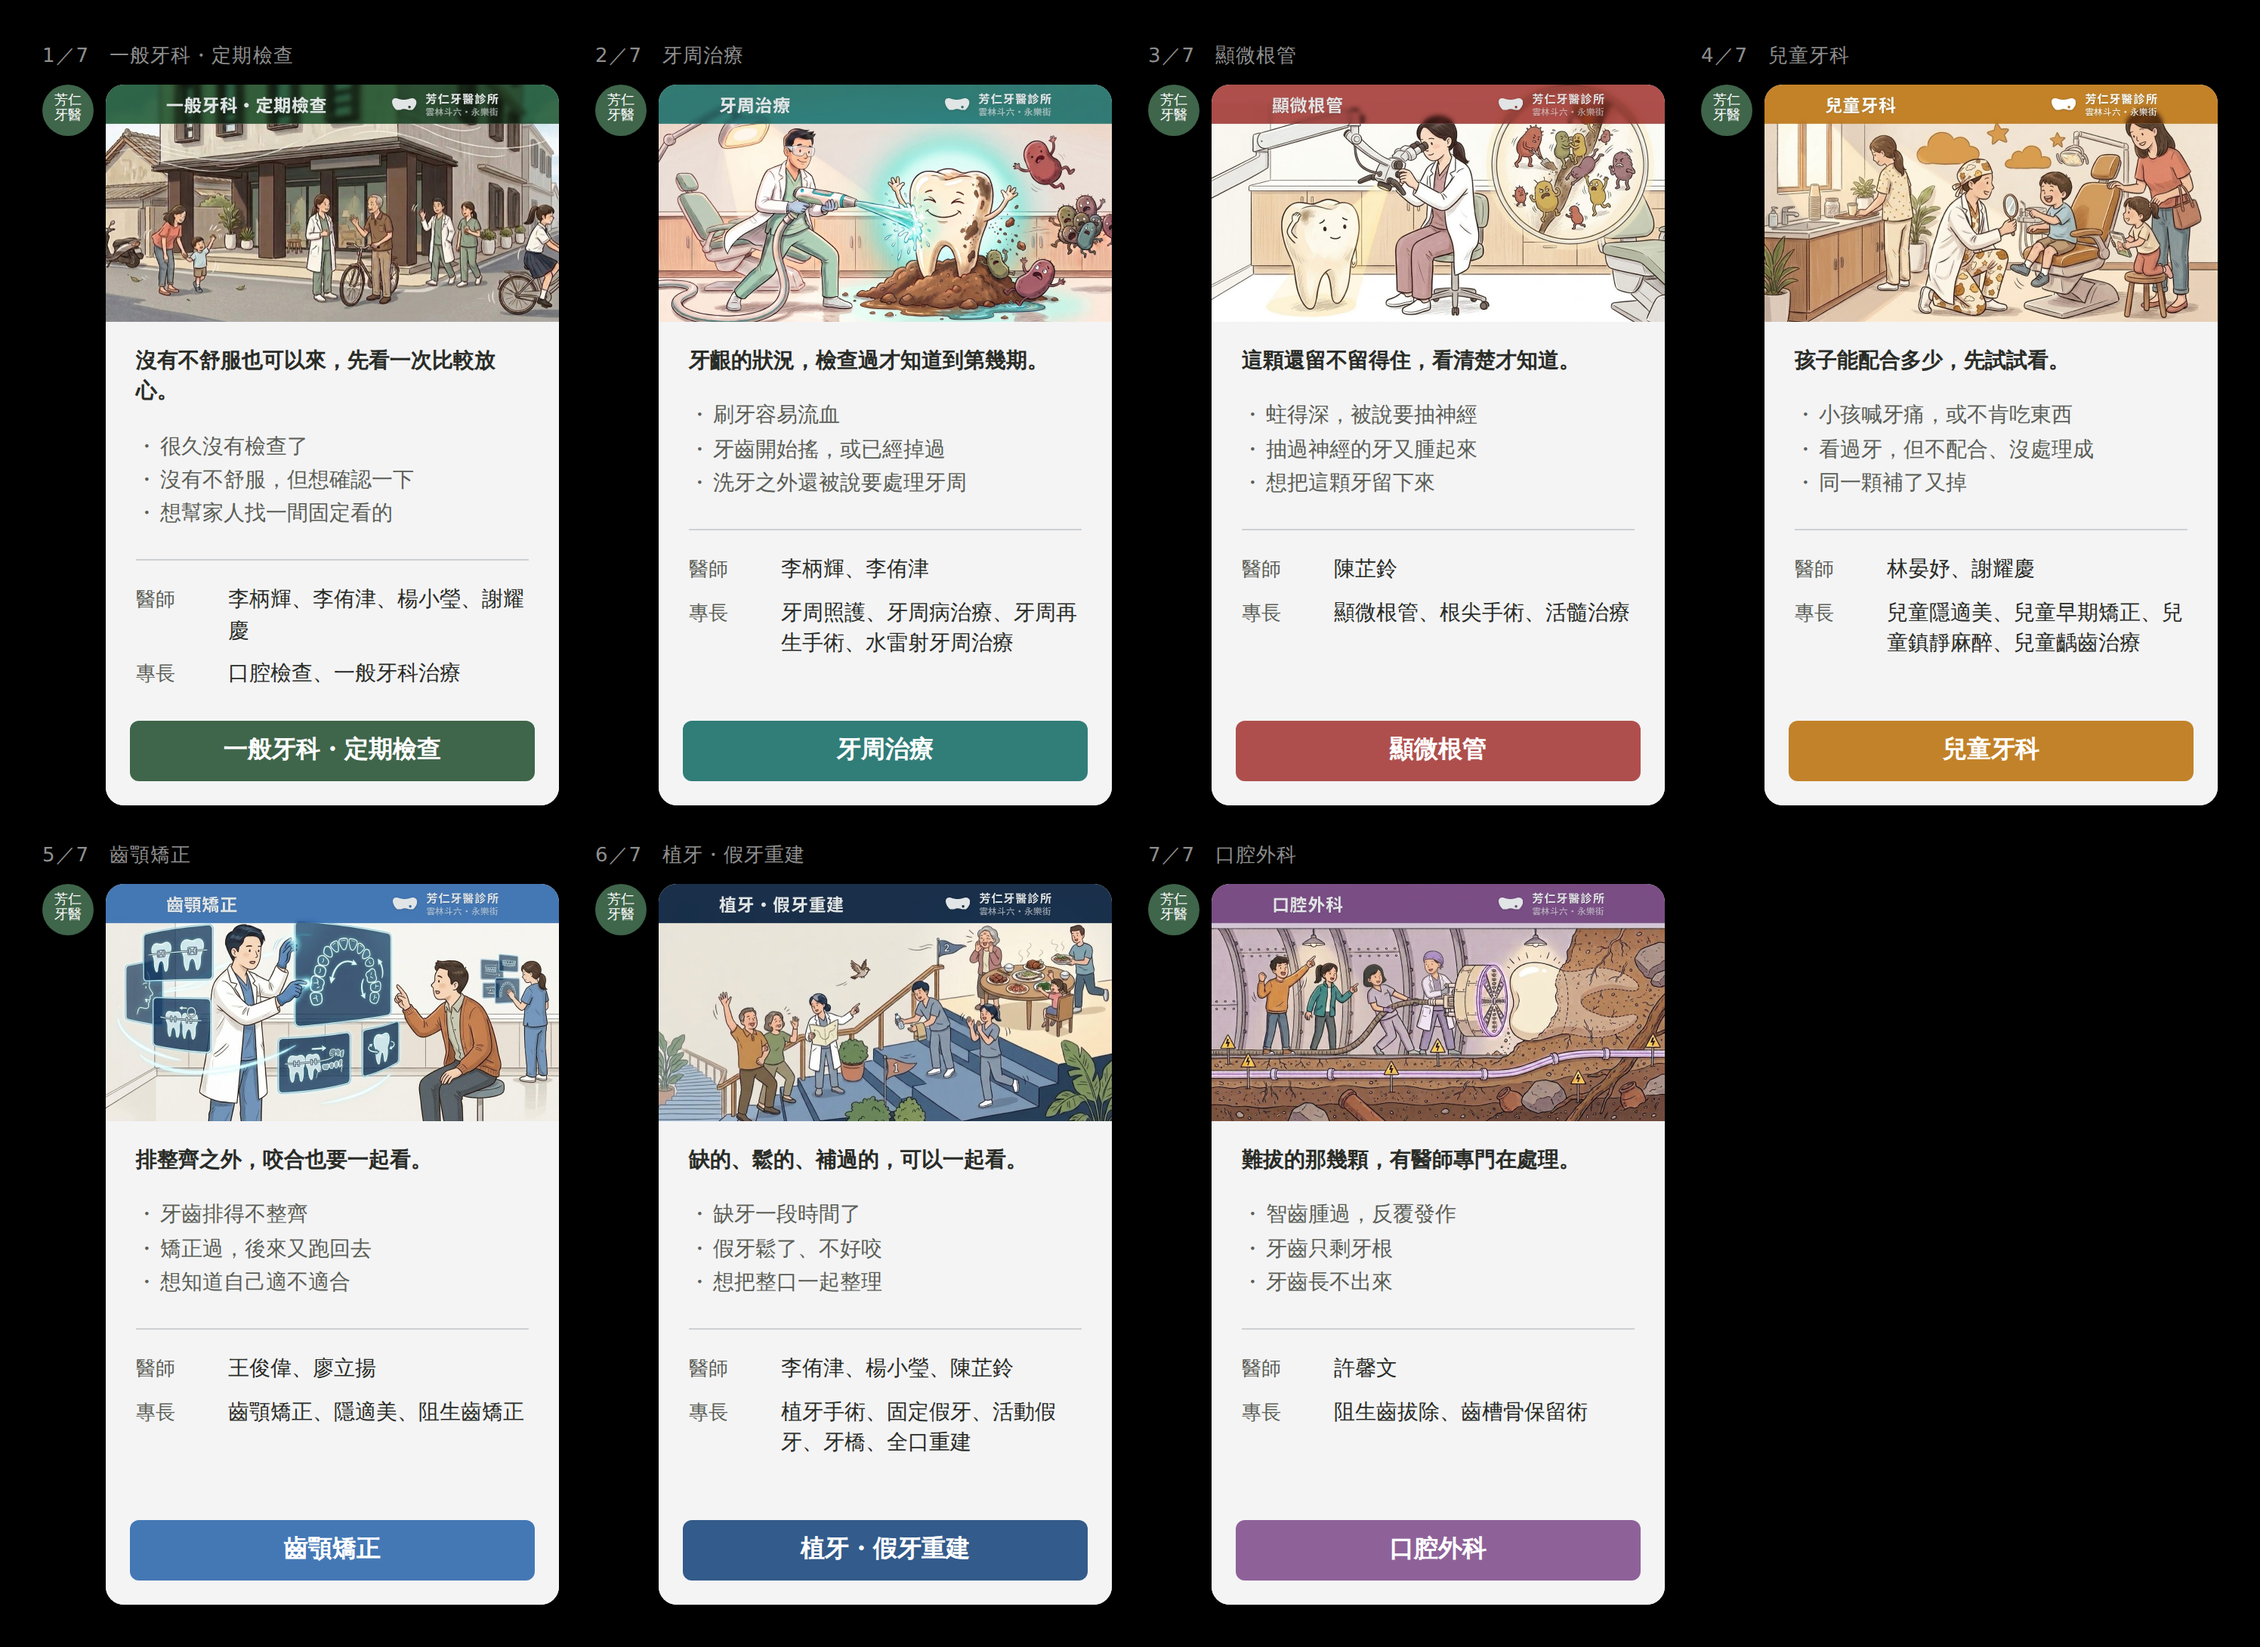
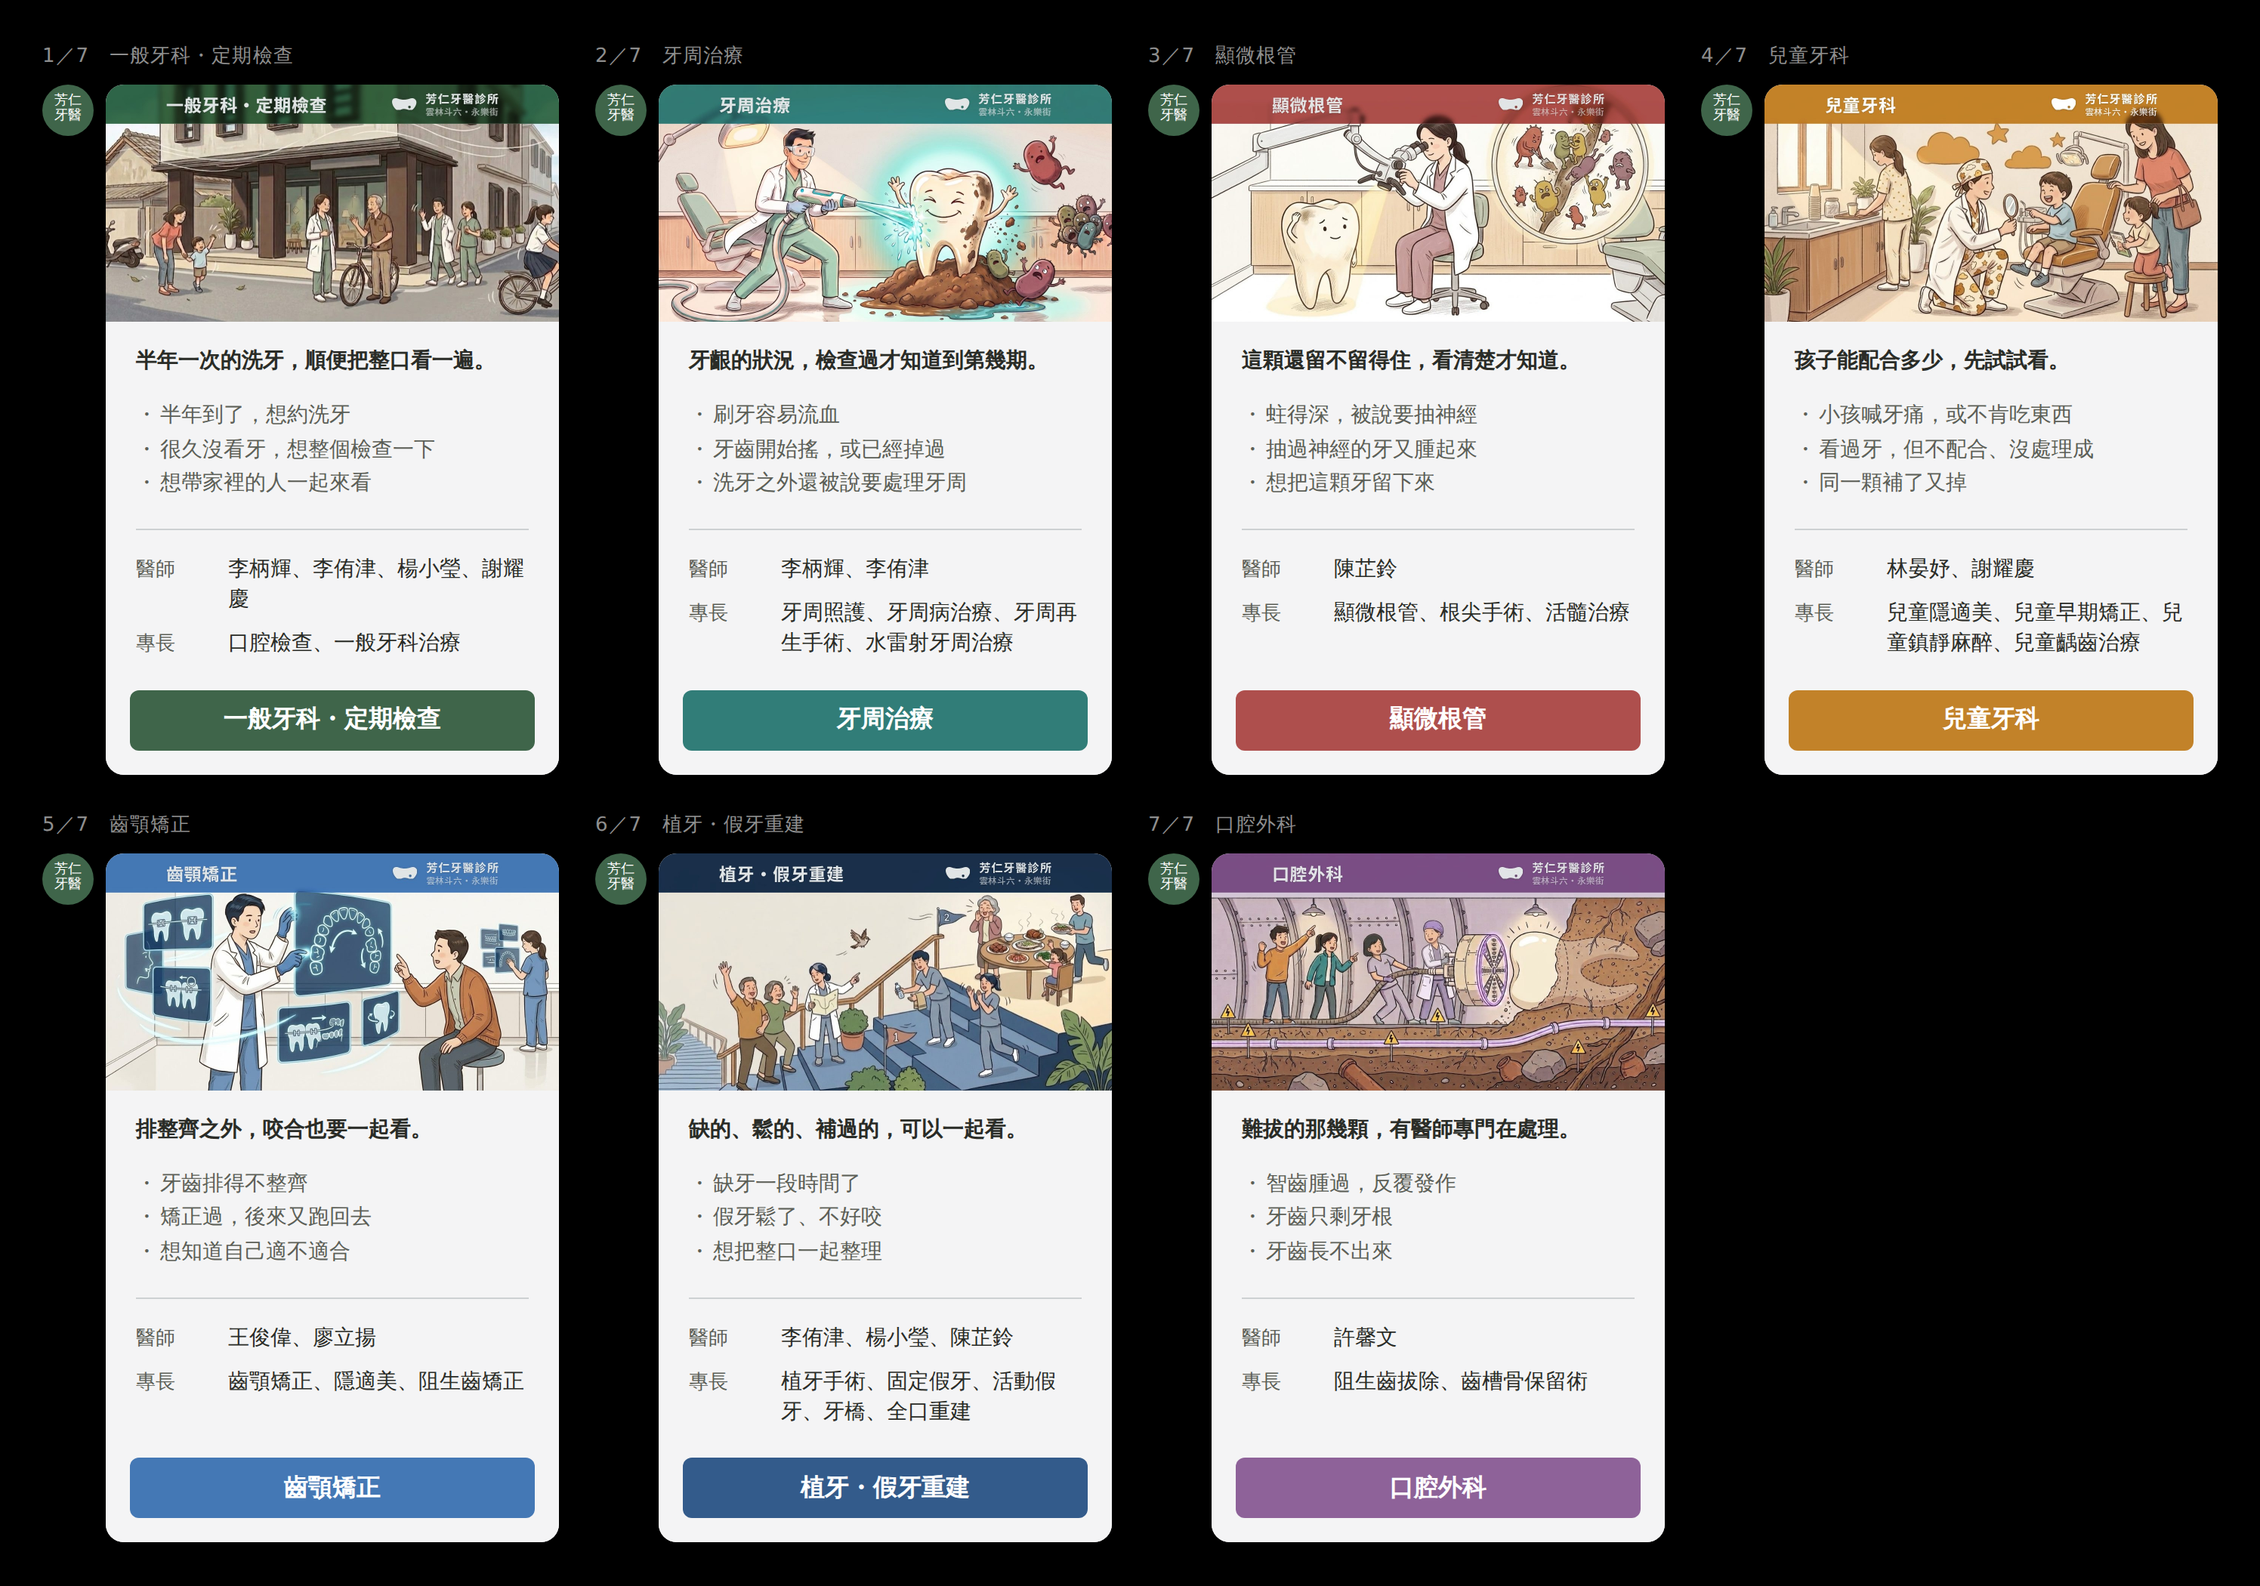
一般牙科那一句重寫：定期檢查的入口是洗牙，不是擔心
使用者：「這不是從民眾、一般人的角度會說的話。什麼叫做先看一次比較放心？
是已經知道可能有問題了，先踩點看看？好奇怪。」

那一句（沒有不舒服也可以來，先看一次比較放心）有兩個各自獨立的毛病：
・「先看一次」＝ 踩點，像是在試這間可不可以，不是在看牙
・「比較放心」＝ 預設他已經在擔心了，可是定期檢查的人沒有在擔心，
  那正是他一直沒來的原因

通則（其他科也會踩）：先問「他為什麼會走進來」，再決定第一句怎麼寫。
六科的入口是症狀，定期檢查沒有症狀 —— 它的入口是他本來就會做的那件事：洗牙。
而且民眾不說「定期檢查」，說的是「洗牙」。

著陸頁 flow［半年］逐字就是答案：「洗牙那半小時，順便把整口看一遍。」
open 直接用它，三行也一起換掉（舊的第二句「沒有不舒服，但想確認一下」
是同一個毛病）。沒有寫「健保」—— 頻次對高風險族群不是半年一次，
著陸頁 flow［風險分級］自己就寫著「有人要更常來」。

Claude-Session: https://claude.ai/code/session_01QMa36HgXCp2rYEV7ykbWqK

diff --git a/drafts/line-oa/README.md b/drafts/line-oa/README.md
@@ -192,7 +192,7 @@ node drafts/line-oa/flex-preview.mjs topics-carousel.json     # → preview-topi
 
 | 科別 | open | 出處 |
 | --- | --- | --- |
-| 一般牙科 | 沒有不舒服也可以來，先看一次比較放心。 | close「人在外地也放得下心」 |
+| 一般牙科 | 半年一次的洗牙，順便把整口看一遍。 | flow［半年］逐字 |
 | 牙周治療 | 牙齦的狀況，檢查過才知道到第幾期。 | flow［說明］ |
 | 顯微根管 | 這顆還留不留得住，看清楚才知道。 | lead |
 | 兒童牙科 | 孩子能配合多少，先試試看。 | flow［先試過］ |
@@ -216,3 +216,35 @@ node drafts/line-oa/flex-preview.mjs topics-carousel.json     # → preview-topi
   2026-08-08 使用者看過實際樣子之後決定維持）。**不要拿對比度來訂正它。**
 ・**科別名沒有寫在 body 裡**，因為分享圖的帶子上已經有了（同診所資訊卡那張的理由）。
   按鈕的字才是它，順便讓沒載到圖的人也知道這是哪一科。
+
+### ⚠⚠⚠ 第三輪：一般牙科・定期檢查那一句寫壞了（2026-08-27）
+
+第一句寫的是「沒有不舒服也可以來，先看一次比較放心。」使用者：
+
+> 「這不是從民眾、一般人的角度會說的話。什麼叫做**先看一次比較放心**？
+> 是已經知道可能有問題了，**先踩點看看**？好奇怪。」
+
+拆開來是**兩個各自獨立的毛病**：
+
+- **「先看一次」＝ 踩點。** 像是在試這間可不可以，不是在看牙。
+- **「比較放心」＝ 預設他已經在擔心了。** 可是**定期檢查的人沒有在擔心** ——
+  那正是他一直沒來的原因。**拿「擔心」當入口，這一科一定寫不對。**
+
+⚠⚠ **通則（其他科也會踩）：先問「他為什麼會走進來」，再決定第一句怎麼寫。**
+六科的入口是**症狀**（會痛、會腫、會搖、缺牙、排不整齊、拔不掉），
+定期檢查沒有症狀 —— 它的入口是**他本來就會做的那件事：洗牙**。
+
+⚠ 而且**民眾不說「定期檢查」，說的是「洗牙」「看牙」**。
+站上那篇文章的標題就是〈半年一次的洗牙：健保給付的那一次，到底在做什麼〉，
+而著陸頁 flow［半年］那一行**逐字就是答案**：
+
+> 洗牙那半小時，順便把整口看一遍。
+
+定案的 open 直接用它（前面補「半年一次的」當節奏），一句話同時做到三件：
+用民眾的詞、不預設焦慮、說出這一科多做的那一件。
+
+三行也一起換掉（舊的第二句「沒有不舒服，但想確認一下」是同一個毛病）：
+`半年到了，想約洗牙` ／ `很久沒看牙，想整個檢查一下` ／ `想帶家裡的人一起來看`。
+
+⚠ 沒有寫「健保」—— 健保的頻次對高風險族群不是半年一次
+（著陸頁 flow［風險分級］就寫著「有人要更常來」），一句話講不清楚，留給那篇文章。
